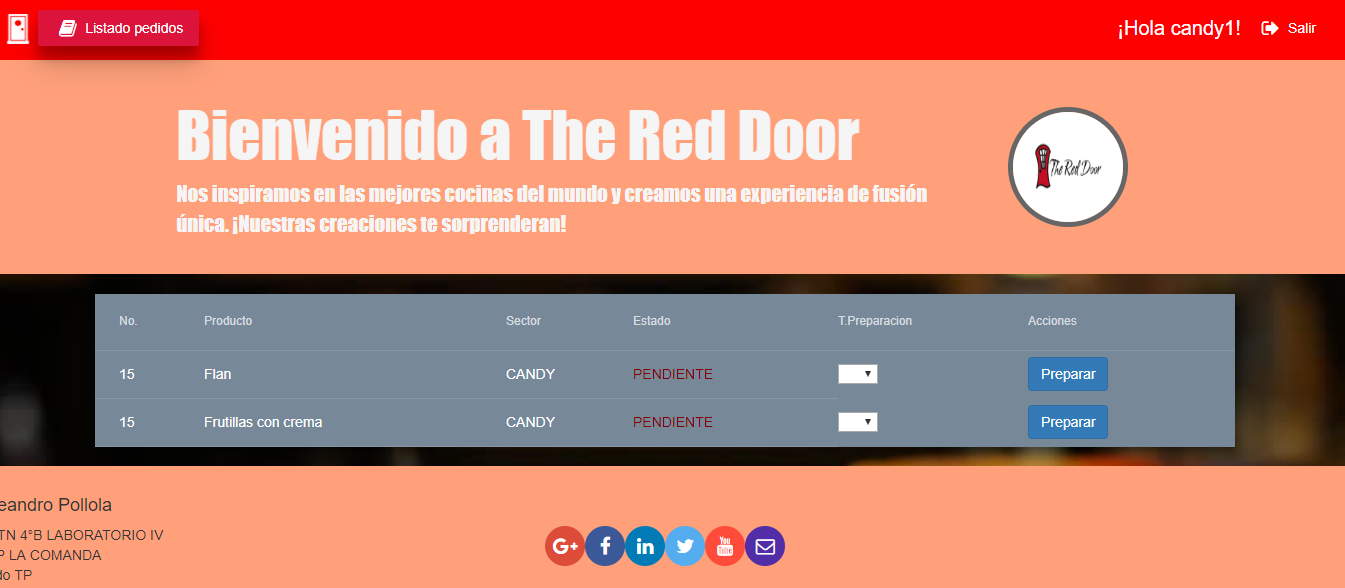
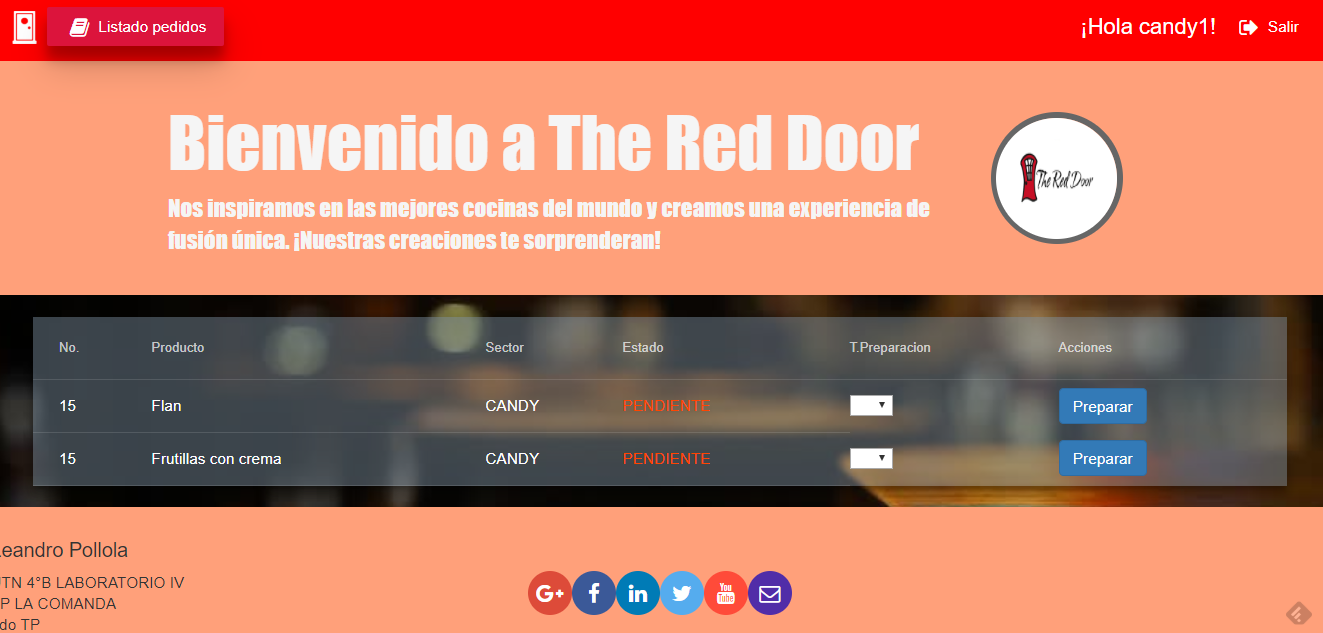
modifico estilo de formatos de tabla en readme, actualizo colores de directivas, seteo las tablas

diff --git a/src/app/directivas/estado-pedido.directive.ts b/src/app/directivas/estado-pedido.directive.ts
@@ -13,7 +13,7 @@ export class EstadoPedidoDirective {
     {
       
       case "pendiente": 
-      this.renderer.setElementStyle( this.element.nativeElement, "color", "maroon");
+      this.renderer.setElementStyle( this.element.nativeElement, "color", "orangered");
       break;
       
       case "en preparacion": 

diff --git a/src/app/tabla-pendientes/tabla-pendientes.component.css b/src/app/tabla-pendientes/tabla-pendientes.component.css
@@ -12,5 +12,5 @@ table {
 }
 
 .mat-table {
-    background: lightslategray;
+    background: rgba(119, 136, 153, 0.481);
 }
